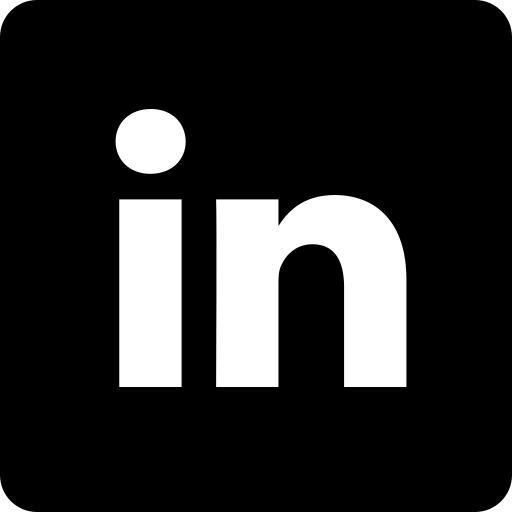
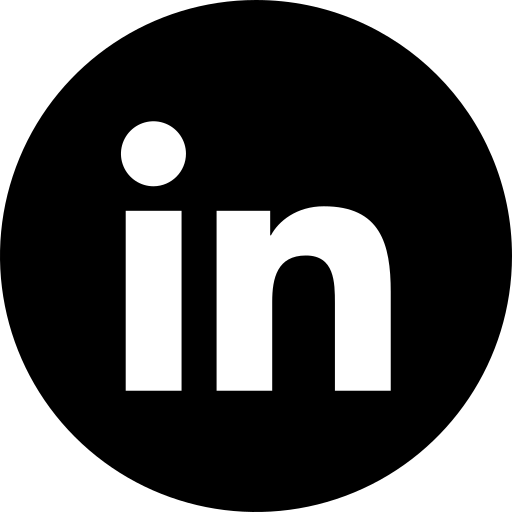
Add files via upload

diff --git a/index.html b/index.html
@@ -15,38 +15,48 @@
     <header id="header" class="">
         <div class="container">
             <div>
-                <a href="#" class="">
-                    <img src="htm.png" alt="" class="m0">
-                </a>
-                <a href="#" class="">
-                    <h1 class="m0">Talha Mujahid</h1>
-                </a>
+                <div id="logo">
+                    <a href="#" class="">
+                        <img src="htm.png" alt="" class="m0">
+                    </a>
+                </div>
+                <div id="branding">
+                    <a href="#" class="">
+                        <h1 class="m0">Talha Mujahid</h1>
+                    </a>
+                </div>
+                <!-- <div style="flex: 1;"></div> -->
+                <div id="social-icons">
+                    <a href="https://htmujahid.com" target="_blank">
+                        <img src="web.png" width="25px" alt=" ">
+                    </a>
+                    <a href="mailto:htmujahid@gmail.com" target="_blank">
+                        <img src="email.png" width="25px" alt=" ">
+                    </a>
+                    <a href="https://www.github.com/htmujahid" target="_blank">
+                        <img src="github.png" width="25px" alt=" ">
+                    </a>
+                    <a href="https://www.linkedin.com/in/htmujahid/" target="_blank">
+                        <img src="linkedin.png" width="25px" alt=" ">
+                    </a>
+                </div>
             </div>
         </div>
     </header>
     <main id="main">
-        <section id="showcase">
-            <div>
+        <div class="container">
+            <section id="info">
+                <h2>Info</h2>
+                <hr>
                 <div>
-                    <img src="images.png">
+                <article class="edu">
+                    <div>
+                        <p>A passionate software engineer with projects on multiple platforms. I am currently studying in NUST. I am interested to build my career in full stack development</p>
+                    </div>
+                </article>
                 </div>
-                <div>
-                    <!-- <a href="tel:+############" target="_blank">
-                        <img src="phone.png " width="20px" alt=" ">
-                    </a> -->
-                    <a href="mailto:htmujahid@gmail.com" target="_blank">
-                        <img src="gmail.png " width="20px" alt=" ">
-                    </a>
-                    <a href="https://www.github.com/htmujahid" target="_blank">
-                        <img src="github.png " width="20px" alt=" ">
-                    </a>
-                    <a href="https://www.linkedin.com/in/htmujahid/" target="_blank">
-                        <img src="linkedin.png " width="20px" alt=" ">
-                    </a>
-                </div>
-            </div>
-        </section>
-           <main>
+            </section>
+        </div>
         <div class="container">
             <section id="education">
                 <h2>Education</h2>
@@ -137,7 +147,7 @@
                         </ul>
                     </div>
                 </article>
-                </div>
+                <!-- <p><a href="#projects">More Projects</a></p> -->
             </section>
         </div>
         <div class="container">
@@ -186,7 +196,7 @@
     </main>
             <hr>
     <footer id="footer">
-        <p>Copyright &copy; 2021</p>
+        <p>Copyright &copy; 2021 <a href="https://htmujahid.com" target="_blank">htmujahid.com</a>. All rights reserved</p>
     </footer>
 </body>
 

diff --git a/style.css b/style.css
@@ -6,8 +6,12 @@ body {
     padding: 0;
 }
 
+a {
+    color: black;
+}
+
 .container {
-    max-width: 720px;
+    max-width: 1080px;
     margin: 0 auto;
 }
 
@@ -19,20 +23,25 @@ body {
     padding: 0;
 }
 
-header#header {
-    background-color: #000;
+/* header#header {
+    background-color: #000; 
+} */
+header#header > div > div{
+    border-bottom: #333 3px solid;
 }
 
 header#header div div {
     display: flex;
     align-items: center;
     padding: 10px 0;
-    border-bottom: #333 3px solid;
+    overflow:visible;
 }
-
+header#header div#branding{
+    flex: 1;
+}
 header#header a {
     line-height: 0;
-    color: white;
+    color: black;
     text-decoration: none;
 }
 
@@ -44,33 +53,11 @@ header#header h1 {
     padding-top: 0px;
 }
 
-section#showcase {
-    padding-top: calc(50vh - 180px);
-    padding-bottom: calc(50vh - 100px);
-}
-
-section#showcase div div {
-    text-align: center;
-}
-
-section#showcase div div>img {
-    width: auto;
-    height: 200px;
-    position: relative;
-    transition: linear all 0.5s;
-}
-
-section#showcase div div>img:hover {
-    filter: brightness(60%);
-}
-
-section#showcase div div a {
-    margin: 5px;
-}
-
-section#showcase div div a img:hover {
+header#header div#social-icons a img:hover {
     opacity: 50%;
 }
+
+main section#info,
 main section#education,
 main section#projects,
 main section#dev,
@@ -80,6 +67,7 @@ main section#other{
     padding: 10px;
     overflow: hidden;
 }
+main section#info h2,
 main section#education h2,
 main section#projects h2,
 main section#dev h2,
@@ -114,6 +102,15 @@ footer{
     text-align: center;
     padding: 1px;
 }
+
+@media screen and (max-width:1350px) {
+ 
+    .container{
+        width: 80%;
+    }
+
+}
+
 @media screen and (max-width:950px) {
   
     main section#education h3,
@@ -140,12 +137,21 @@ footer{
         margin-left: 0px;
     }
 }
+
+    
+@media screen and (max-width:600px) {
+ 
+    header#header > div > div {
+        flex-direction: column;
+    }
+    
+}
+
 @media screen and (max-width:510px) {
  
     .container{
         width: 100%;
     }
 
-    
 }
 
